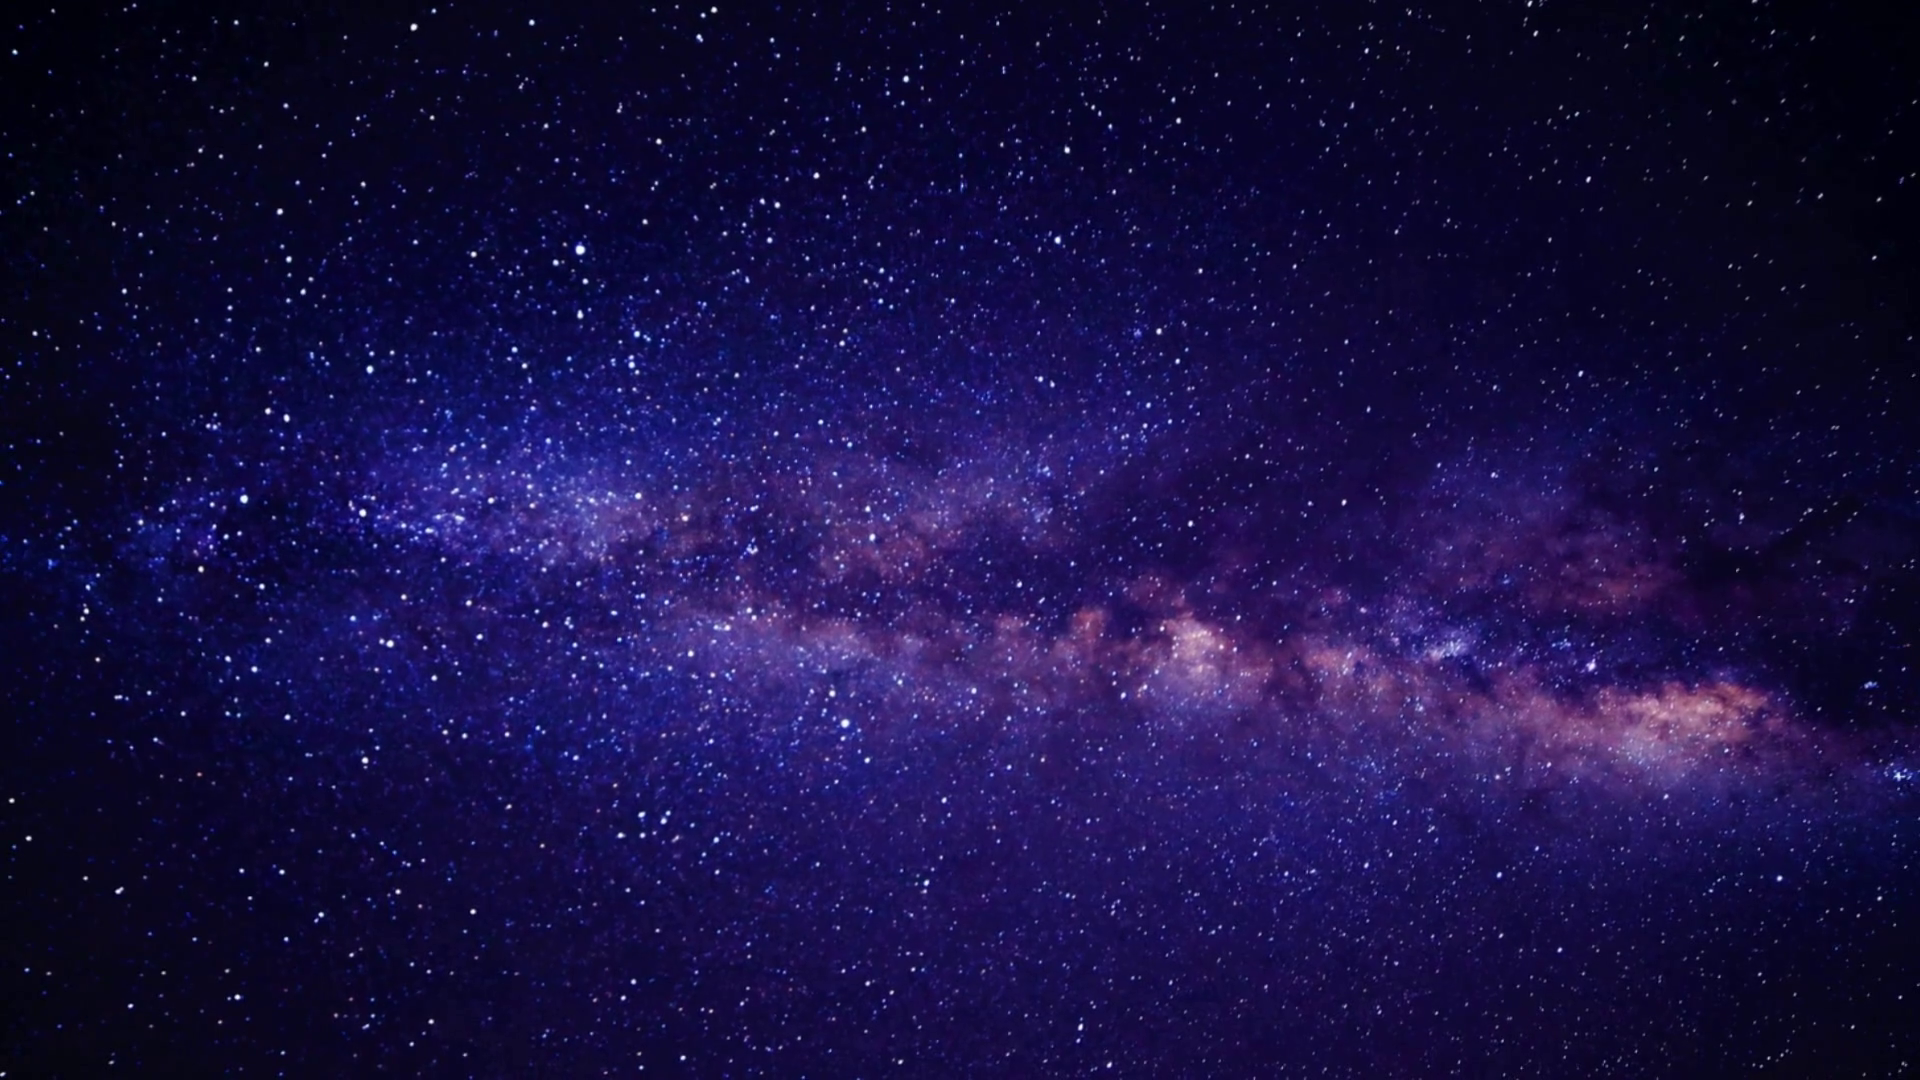
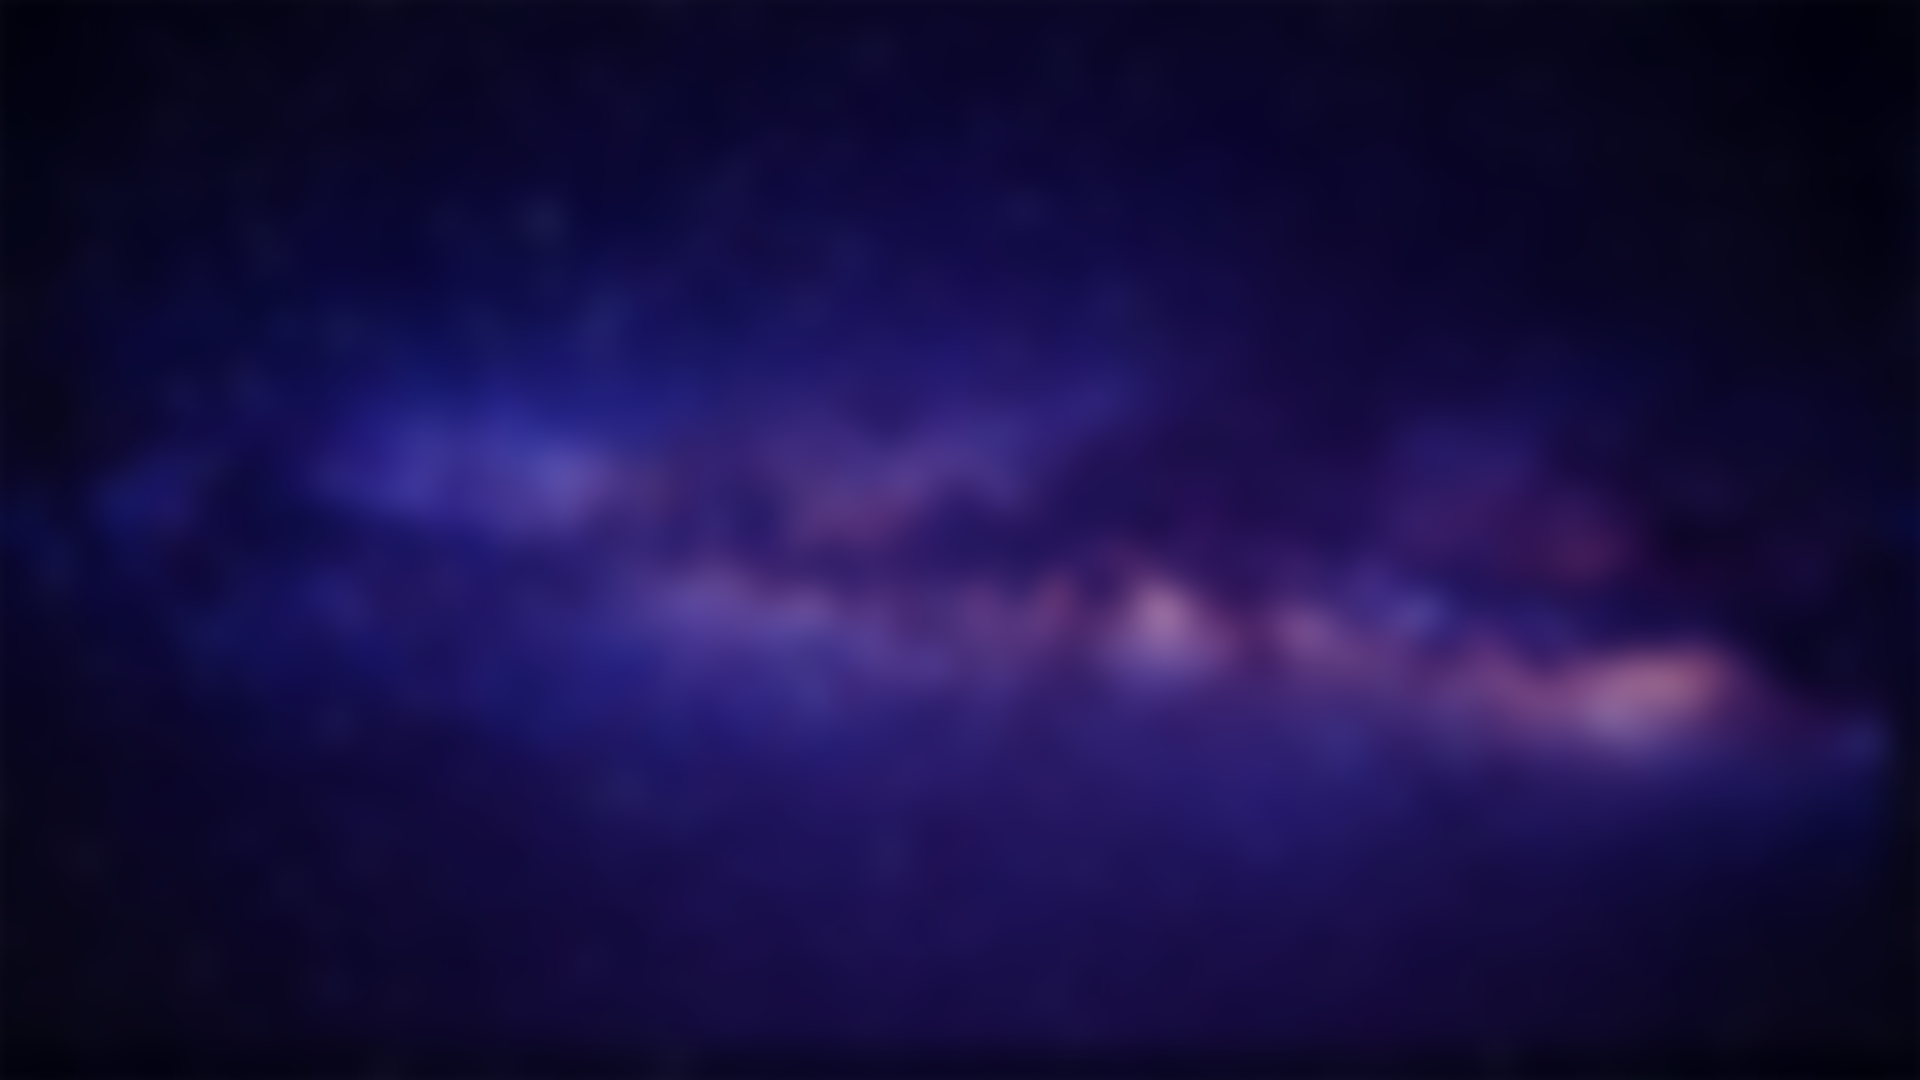
New purple background

diff --git a/css/master.css b/css/master.css
@@ -16,7 +16,7 @@
 :root{
   --color-top: rgb(255, 255, 255);
   --color-over: rgba(255, 255, 255, 0.1);
-  --color-back: rgb(0, 0, 0);
+  --color-back: rgb(26, 11, 42);
 
   --color-red: rgb(255, 63, 52);
   --color-green: rgb(11, 232, 129);
@@ -74,15 +74,15 @@
 body {
   padding: 0;
   margin: 0;
-  /* background-color: var(--color-back); */
+  background-color: var(--color-back);
   /* min-width: 1280px; */
   /* background-image: linear-gradient(180deg, #2683E2, #4BD3E3); */
   /* background-image: url("/imgs/background.png"); */
  
   /* background-attachment: fixed; */
-  
+  /* background-image: url(../imgs/background.png); */
 }
-
+/* 
 body::before {
   content: "";
   position: fixed;
@@ -93,7 +93,7 @@ body::before {
   bottom: -32px;
   z-index: -1; 
   filter: blur(16px);
-}
+} */
 
 a {
   text-decoration: none;
@@ -218,8 +218,8 @@ hr {
 }
 
 .main-name .icon {
-  border-radius: var(--px-radius);
-  border: 2px solid var(--color-over);
+  /* border-radius: var(--px-radius); */
+  /* border: 2px solid var(--color-over); */
   float: left;
 }
 
@@ -287,6 +287,7 @@ label.link:hover {
   margin-top: -16px;
   border-radius: var(--px-radius);
   float: left;
+  border: 2px solid var(--color-over);
 }
 
 .tile {
@@ -317,14 +318,10 @@ label.link:hover {
   border: solid 2px transparent;
 }
 
-.tile.enabled:hover .icon {
-  border: 2px solid transparent;
-}
-
 .tile div {
   border-radius: var(--px-radius);
   border: solid 2px var(--color-over);
-  height: 104px;
+  height: 100px;
   padding: 16px;
   transition: 0.25s;
   text-align: left;
@@ -341,7 +338,7 @@ label.link:hover {
   /* float: left; */
   color: var(--color-top);
   display: block;
-  margin-top: -4px;
+  margin-top: -6px;
 }
 
 .tile.enabled label {
@@ -351,7 +348,6 @@ label.link:hover {
 .tile .icon {
   float: left;
   border-radius: var(--px-radius);
-  border: solid 2px var(--color-over);
   margin-right: 8px;
   transition: 0.25s;
 }
@@ -411,10 +407,11 @@ label.link:hover {
 #navbar-menu-btn {
   display: none !important;
   float: right;
+  border: 2px solid transparent;
 }
 
 #navbar-menu-btn:hover {
-  background-color: var(--color-over);
+  border-color: var(--color-over);
 }
 
 .navbar-btn, #navbar-menu-btn, .navbar-links-btn, .footer-btn {
